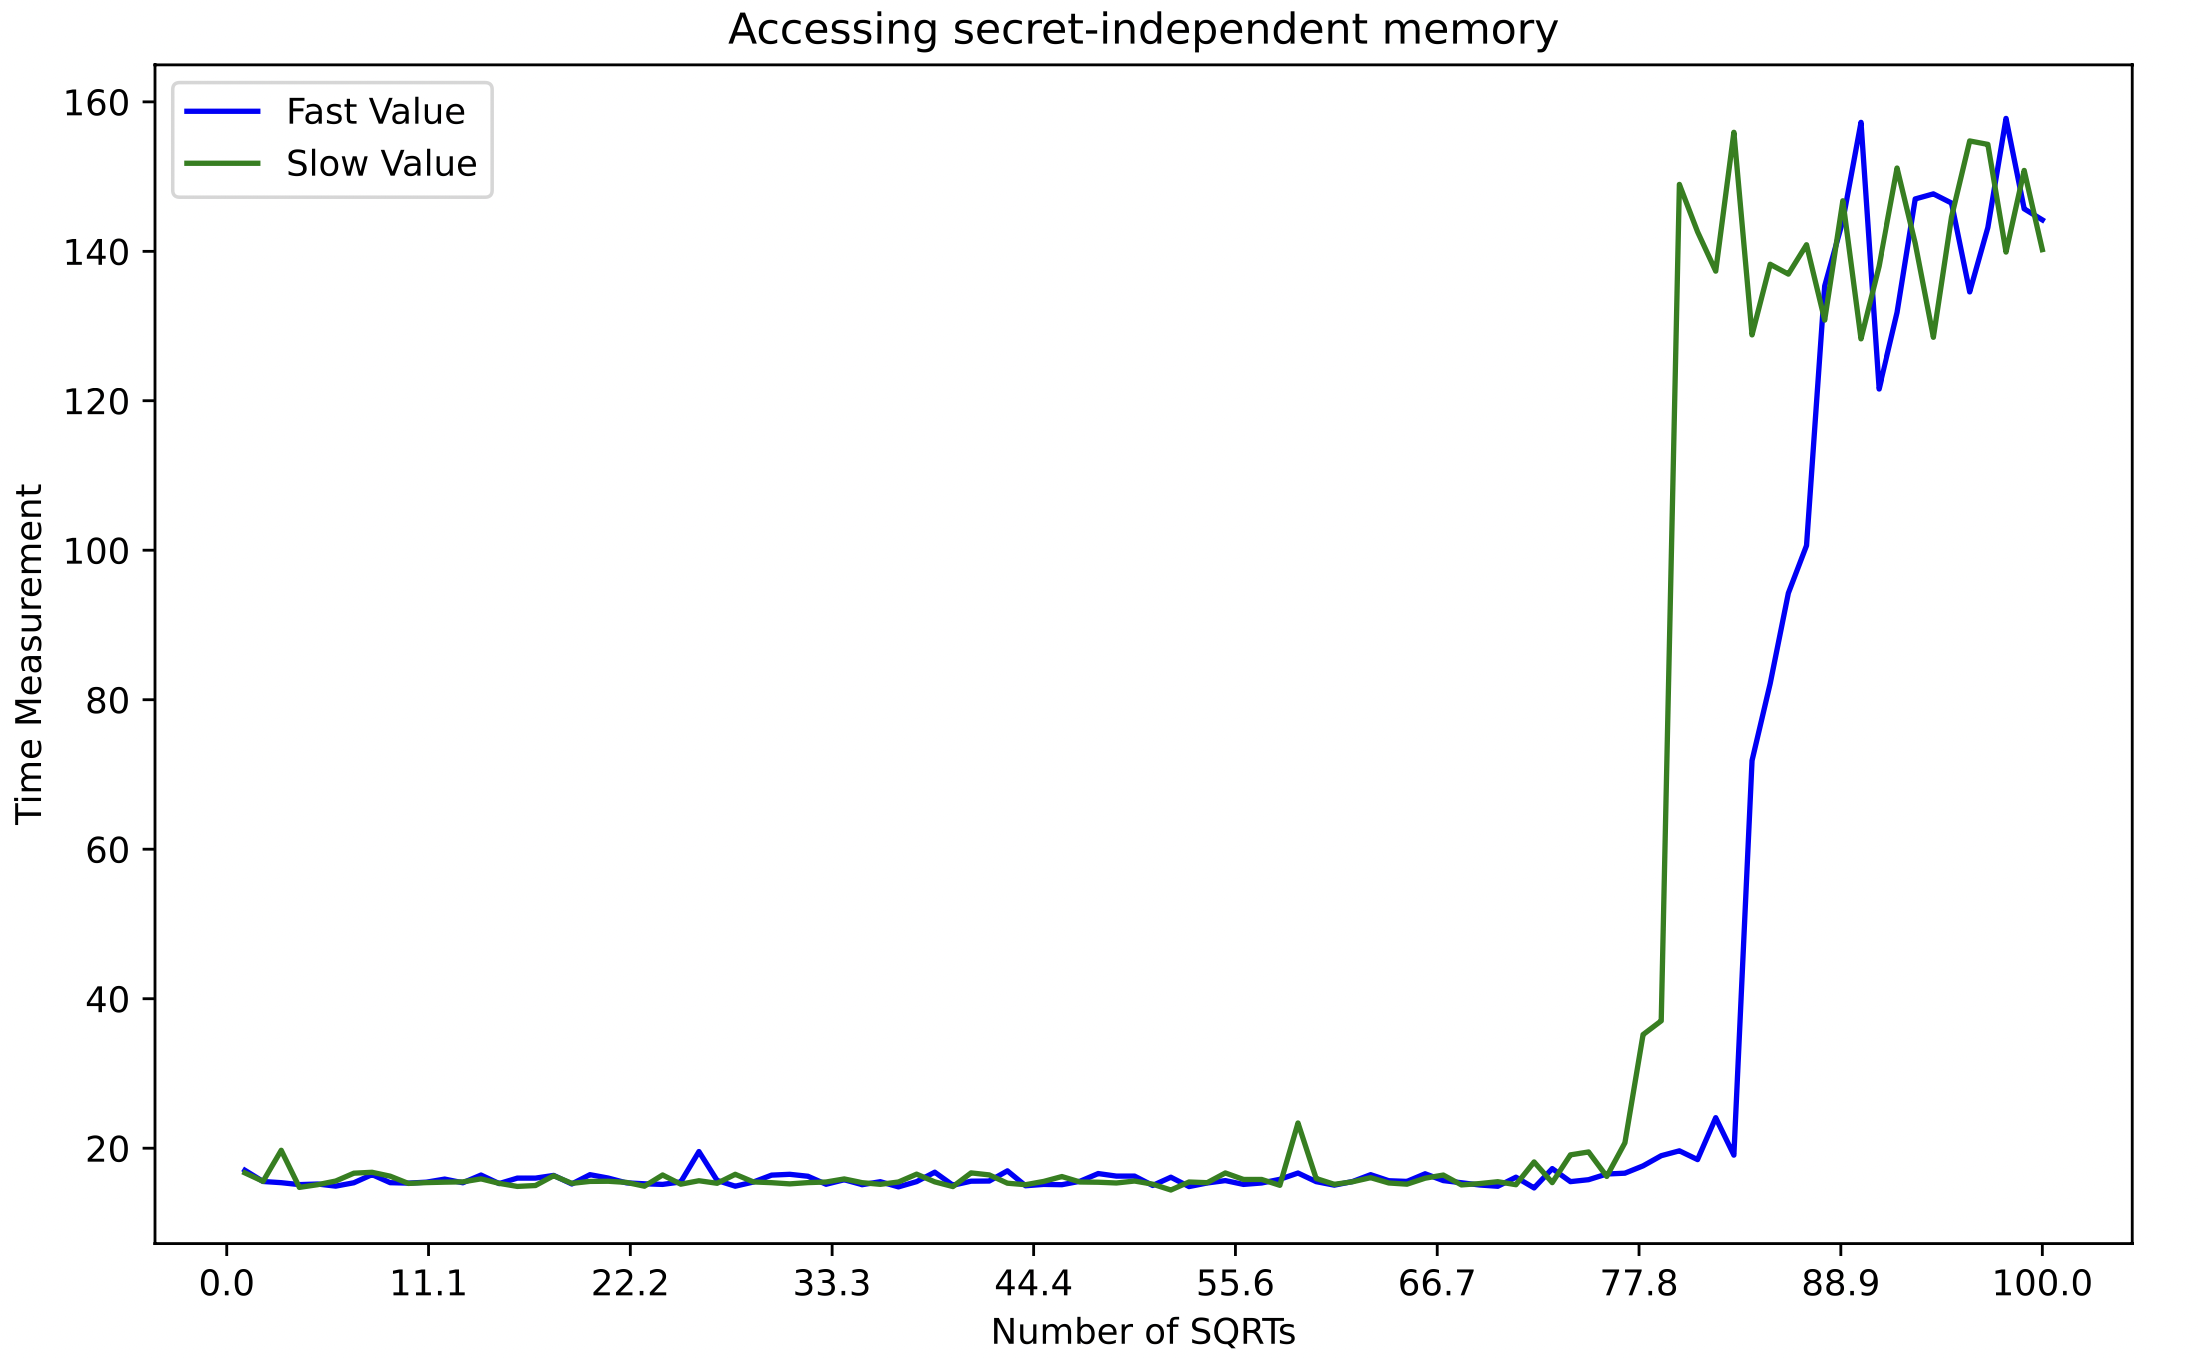
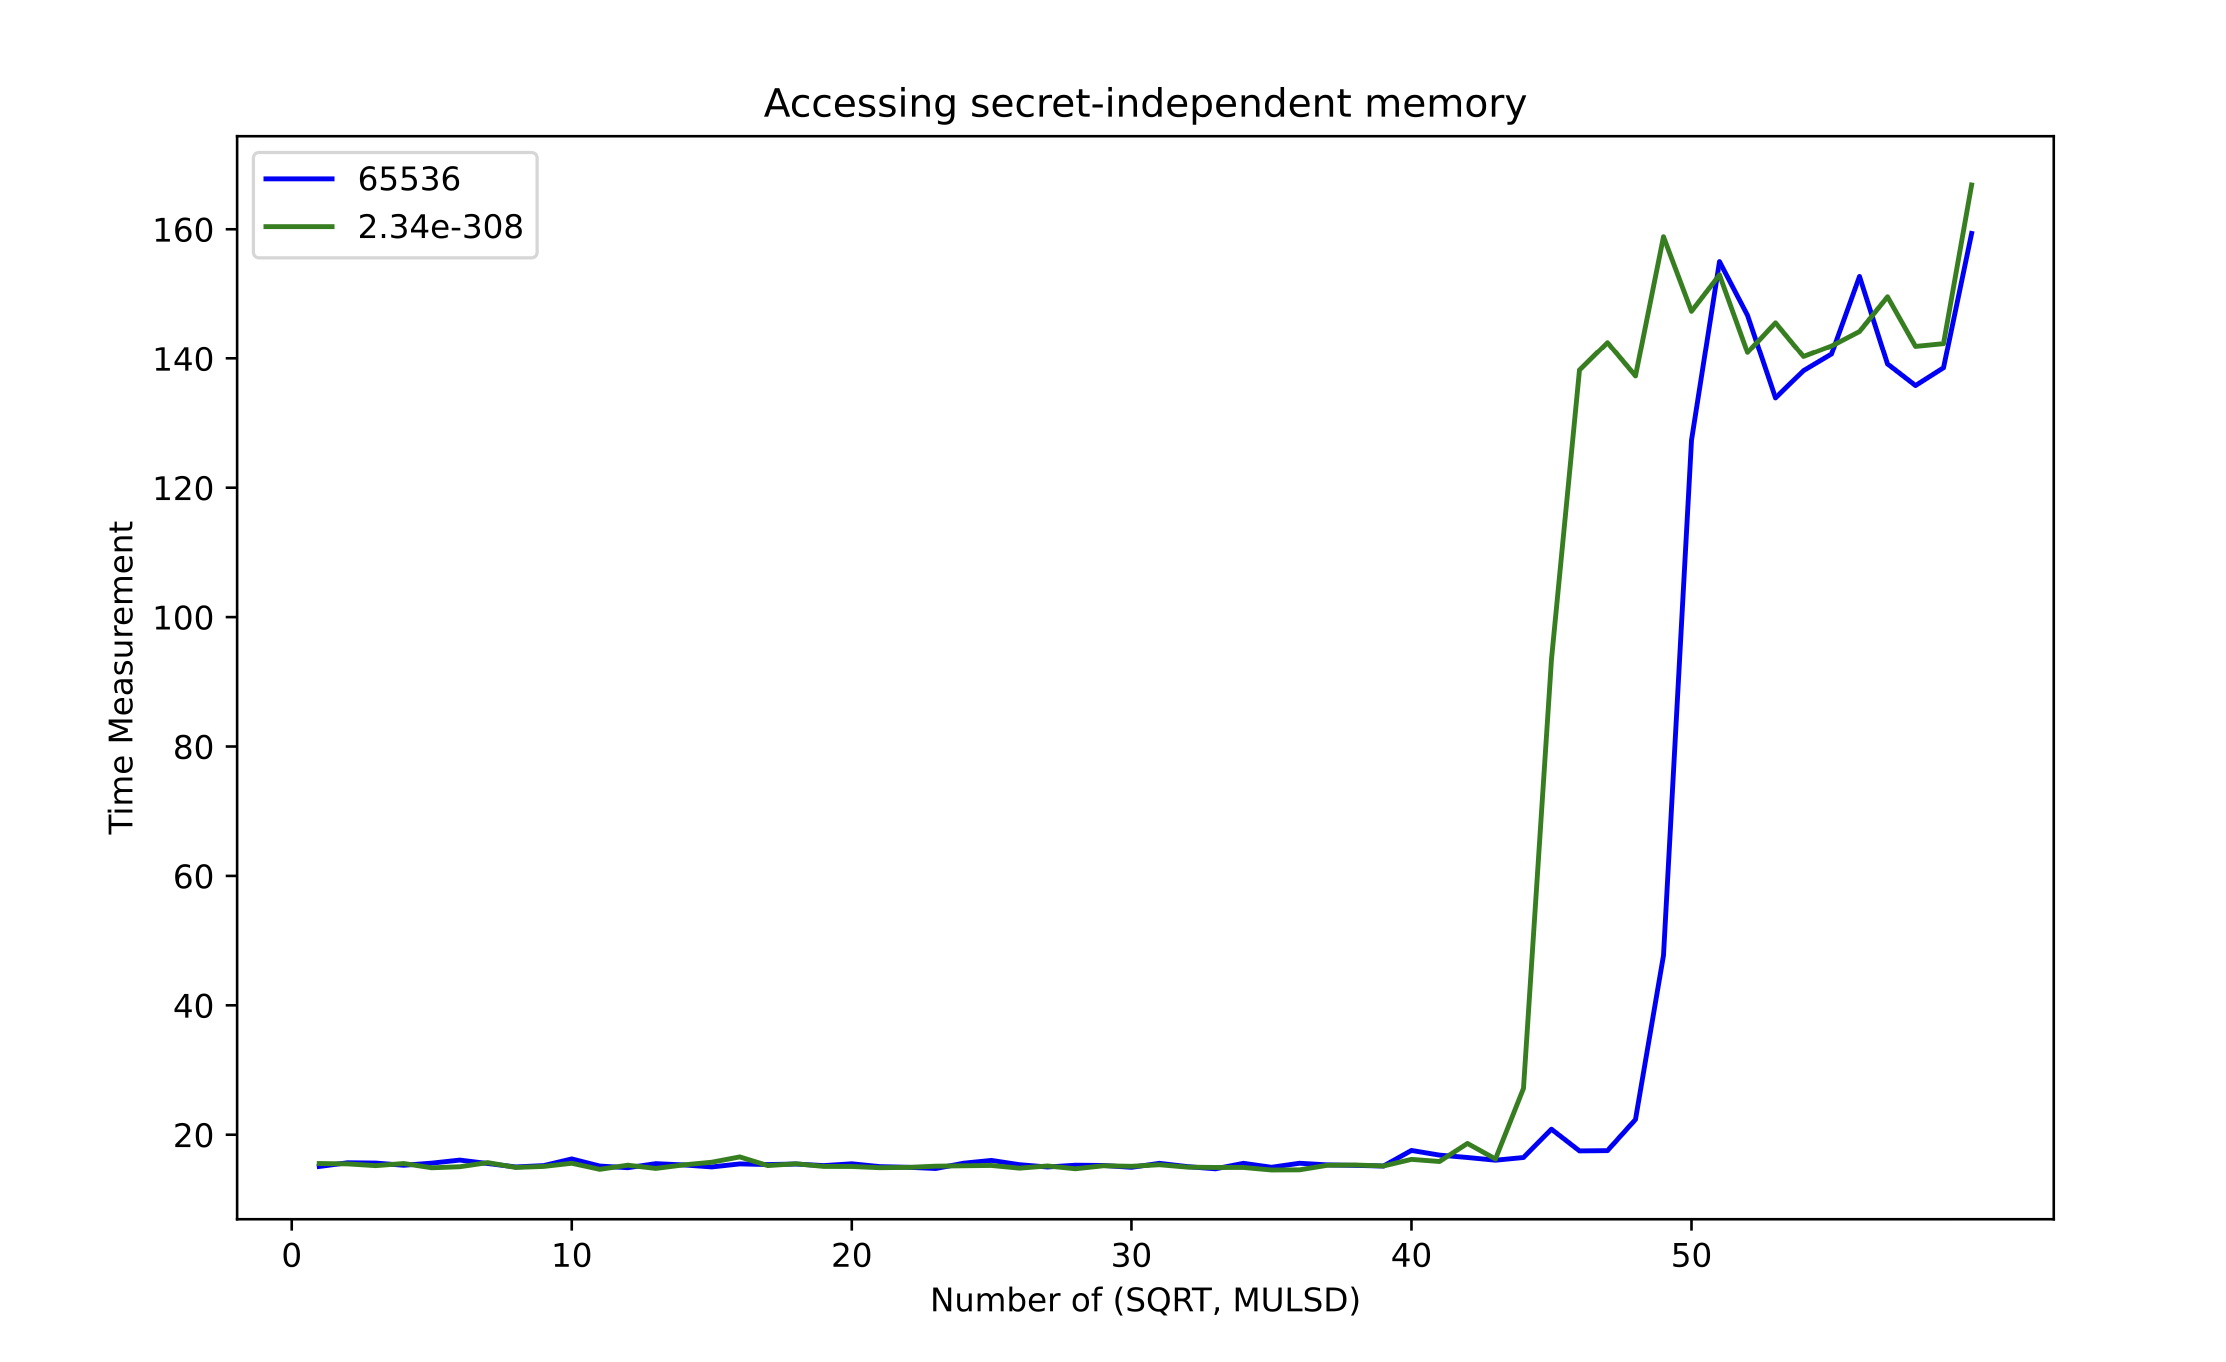
Plot for (SQRTSD and MULSD)

diff --git a/README.md b/README.md
@@ -74,9 +74,9 @@ You could find the PoC under folder Exploit_Poc/V1_VariableTiming_RsourceContent
 The number of floating point instructions that block back-end resources are various among different platforms. It is related to the execution time of floating point executions and the speculation window.  
 
 We provide a script to test when floating point instructions block back-end resources needed for memory independent memory access.  
-We test it by adding SQRT instructions in the victim function and after the victim execution, we check the presence of secret independent memory in the cache.
+We test it by adding pairs of SQRTSD and MULSD instructions in the victim function and after the victim execution, we check the presence of secret independent memory in the cache.
 
-On i7-10710U, with frequency at 3.8GHz, having 80 SQRT instruction blocks the speculative execution of secret independent memory access.
+On i7-10710U, with frequency at 3.8GHz, having 51 pairs of instruction blocks the speculative execution of secret independent memory access.
 
 ![image](https://github.com/0xADE1A1DE/USLH/blob/master/Exploit_PoC/exhaust_resources/find_limitation.png)
 
@@ -84,4 +84,3 @@ On i7-10710U, with frequency at 3.8GHz, having 80 SQRT instruction blocks the sp
 ## Fixing Speculative Load Hardening
 We fix the vulnerabilities proposed in our paper and we also harden the memory writing, memory accessing on fixed address.  
 More information are provided in LLVM_FIX folder.
-
